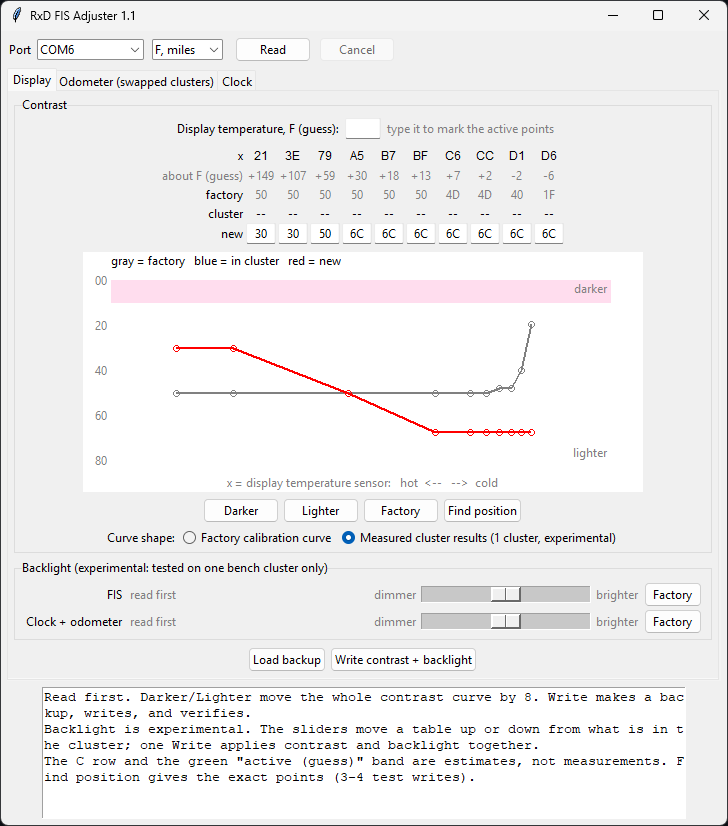
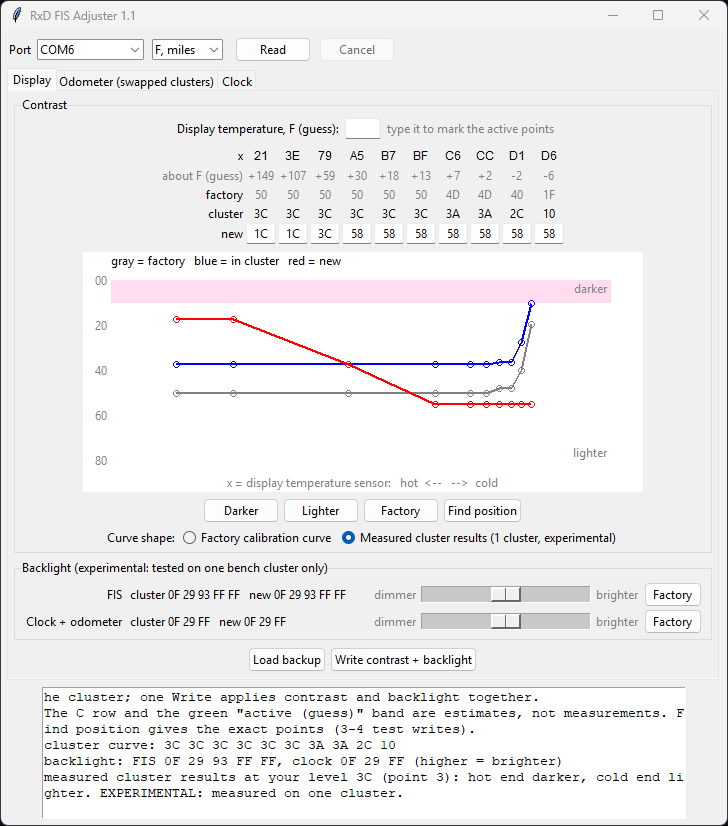
App screenshot with all three lines (factory, in cluster, new); README: brief freezer-run explanation under the curve graph

diff --git a/README.md b/README.md
@@ -81,7 +81,7 @@ Also in the window:
 
 The **Curve shape** switch picks **Factory calibration curve** (default) or **Measured cluster results**. It keeps your level at point 3 and only changes the shape: the hot points 0x20 darker, the cold points 0x1C lighter.
 
-Why: a bench cluster tested from a freezer and on a heated bed needed **more drive the hotter it got**, and washed out when cold. That is the opposite of the factory curve. With a curve set on a cool day, expect fading on hot days.
+How it was measured: the bench cluster came out of a freezer and was swept through every contrast byte, with a webcam photo at each one, as it warmed to room temperature. A heated-bed run continued the sweep up to about 36 C. The orange dots are the best byte at each temperature. It needed **more drive the hotter it got**, and when cold, extra drive washed the whole display out. The factory curve does the opposite. With a curve set on a cool day, expect fading on hot days.
 
 **Measured on one cluster only** (an old, faded D11). A healthy panel may need a gentler slope. Set your level first, then try it, and check on a hot day and a cold morning.
 
